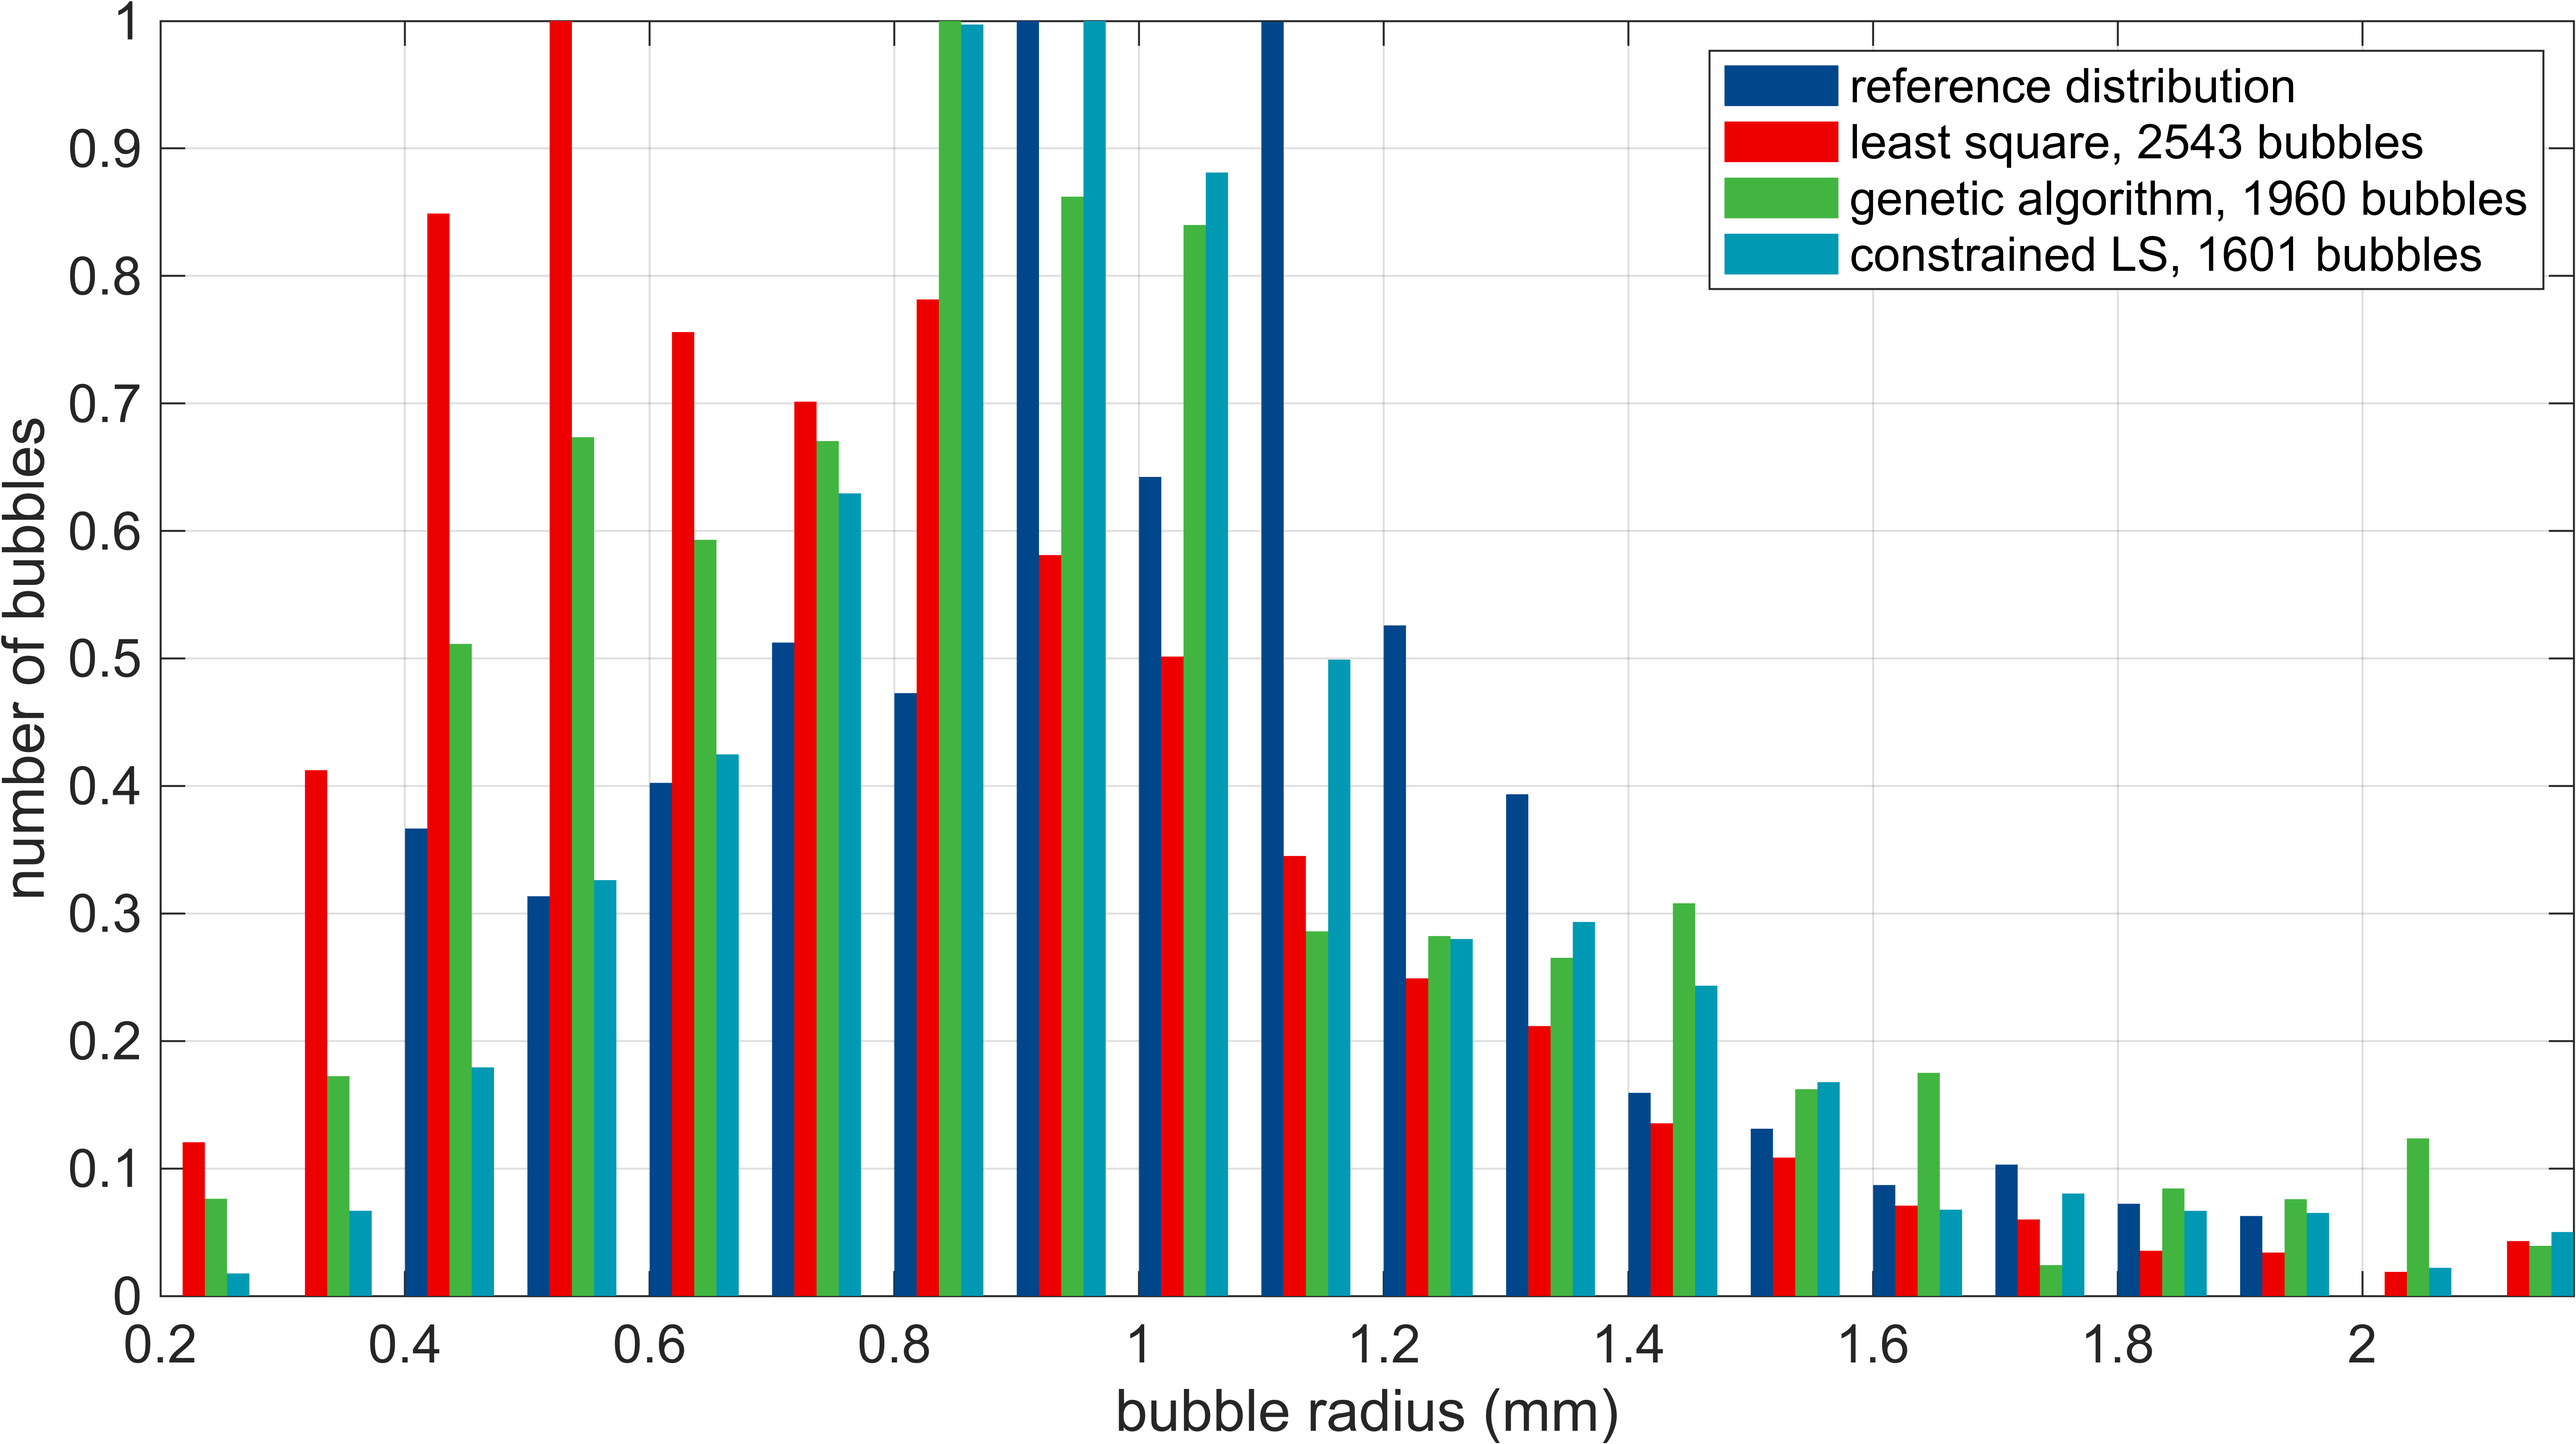
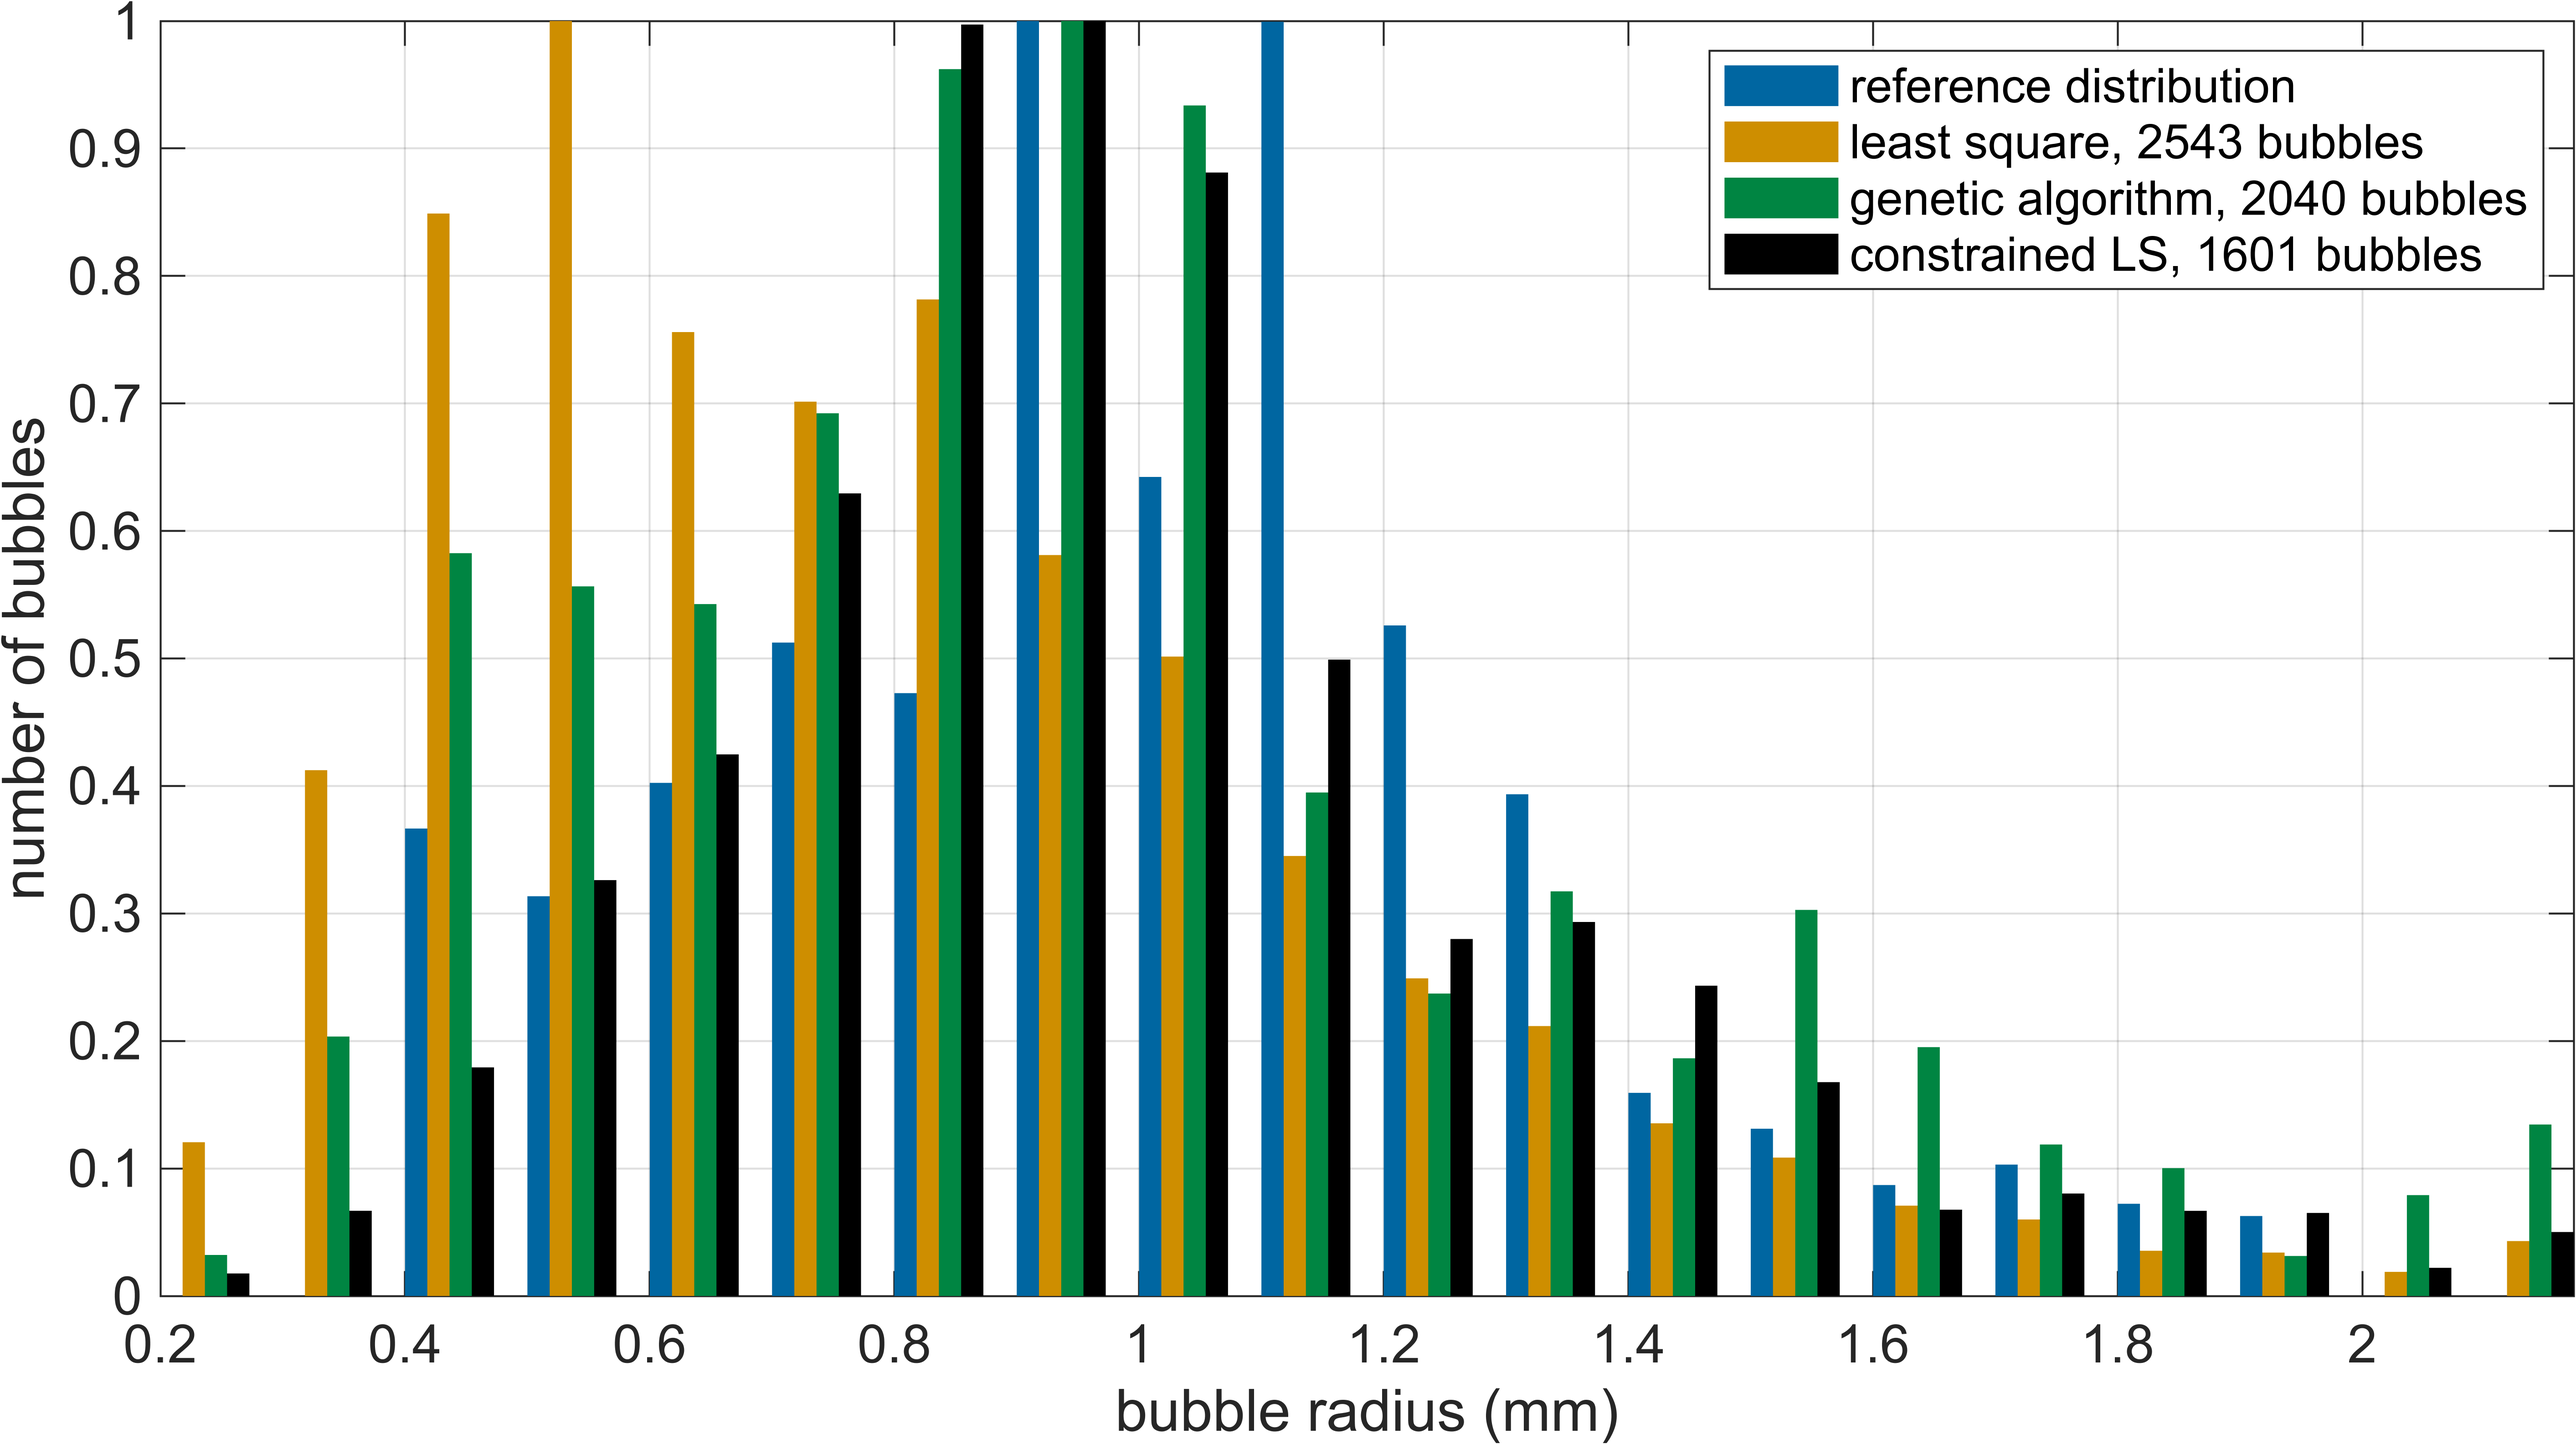
update figure

Changed region(s): [[0.0623, 0.0, 1.0, 0.9057], [0.6538, 0.0312, 0.7161, 0.1874], [0.8717, 0.1249, 0.9029, 0.1562]]

diff --git a/simulation.m b/simulation.m
@@ -6,16 +6,17 @@ params = SetupParams('air');
 Para = SetupEnvPara('air');
 
 % All bubble radii for current simulation
-load bubbledistr-experiment.mat
-nBin = 21;
-nBub = 1e3;
-bubRadPop = randsample(bubRad, nBub, true, bubPdf);
-binEdge = linspace(min(bubRadPop), max(bubRadPop), nBin);
-n_gt = histcounts(bubRadPop, binEdge);
+% load bubbledistr-experiment.mat
+% nBin = 21;
+% nBub = 1e3;
+% bubRadPop = randsample(bubRad, nBub, true, bubPdf);
+% binEdge = linspace(min(bubRadPop), max(bubRadPop), nBin);
+% n_gt = histcounts(bubRadPop, binEdge);
+load bubbles_exp.mat
 
 %% Get simulation result and visulization
 % plot ground truth histogram
-palette = GetPalette();
+palette = colorpalette('ieee_light');
 palette = palette.uchicago;
 
 fH = figure(Position=[1800 0 1000 800]);

diff --git a/figures.m b/figures.m
@@ -18,7 +18,7 @@ ylim([0 1.5])
 grid on
 aH.FontName = 'Times';
 aH.FontSize = 8;
-exportgraphics(fH, './figures/Na.png', 'Resolution', 600);
+% exportgraphics(fH, './figures/Na.png', 'Resolution', 600);
 
 % convert N(a) to vector N
 nBin = 31;
@@ -40,7 +40,9 @@ aH.FontSize = 8;
 grid on
 xlabel('bubble radius (mm)')
 ylabel('$\mathbf{n}$', 'Interpreter','latex');
-exportgraphics(fH, './figures/vecN.png', 'Resolution', 600);
+% exportgraphics(fH, './figures/vecN.png', 'Resolution', 600);
+
+%% Simulation 
 
 
 

diff --git a/experiment.m b/experiment.m
@@ -31,8 +31,7 @@ params = SetupParams('air');
 Para = SetupEnvPara('air', 'ambient_soundspeed', c_amb);
 
 % plot experiment data
-palette = GetPalette();
-palette = palette.lancet;
+palette = colorpalette('ieee_foundation');
 
 fH = figure(Position=[1800 0 1000 1000]);
 tH = tiledlayout(2,1, 'TileSpacing','tight', 'Padding','tight');
